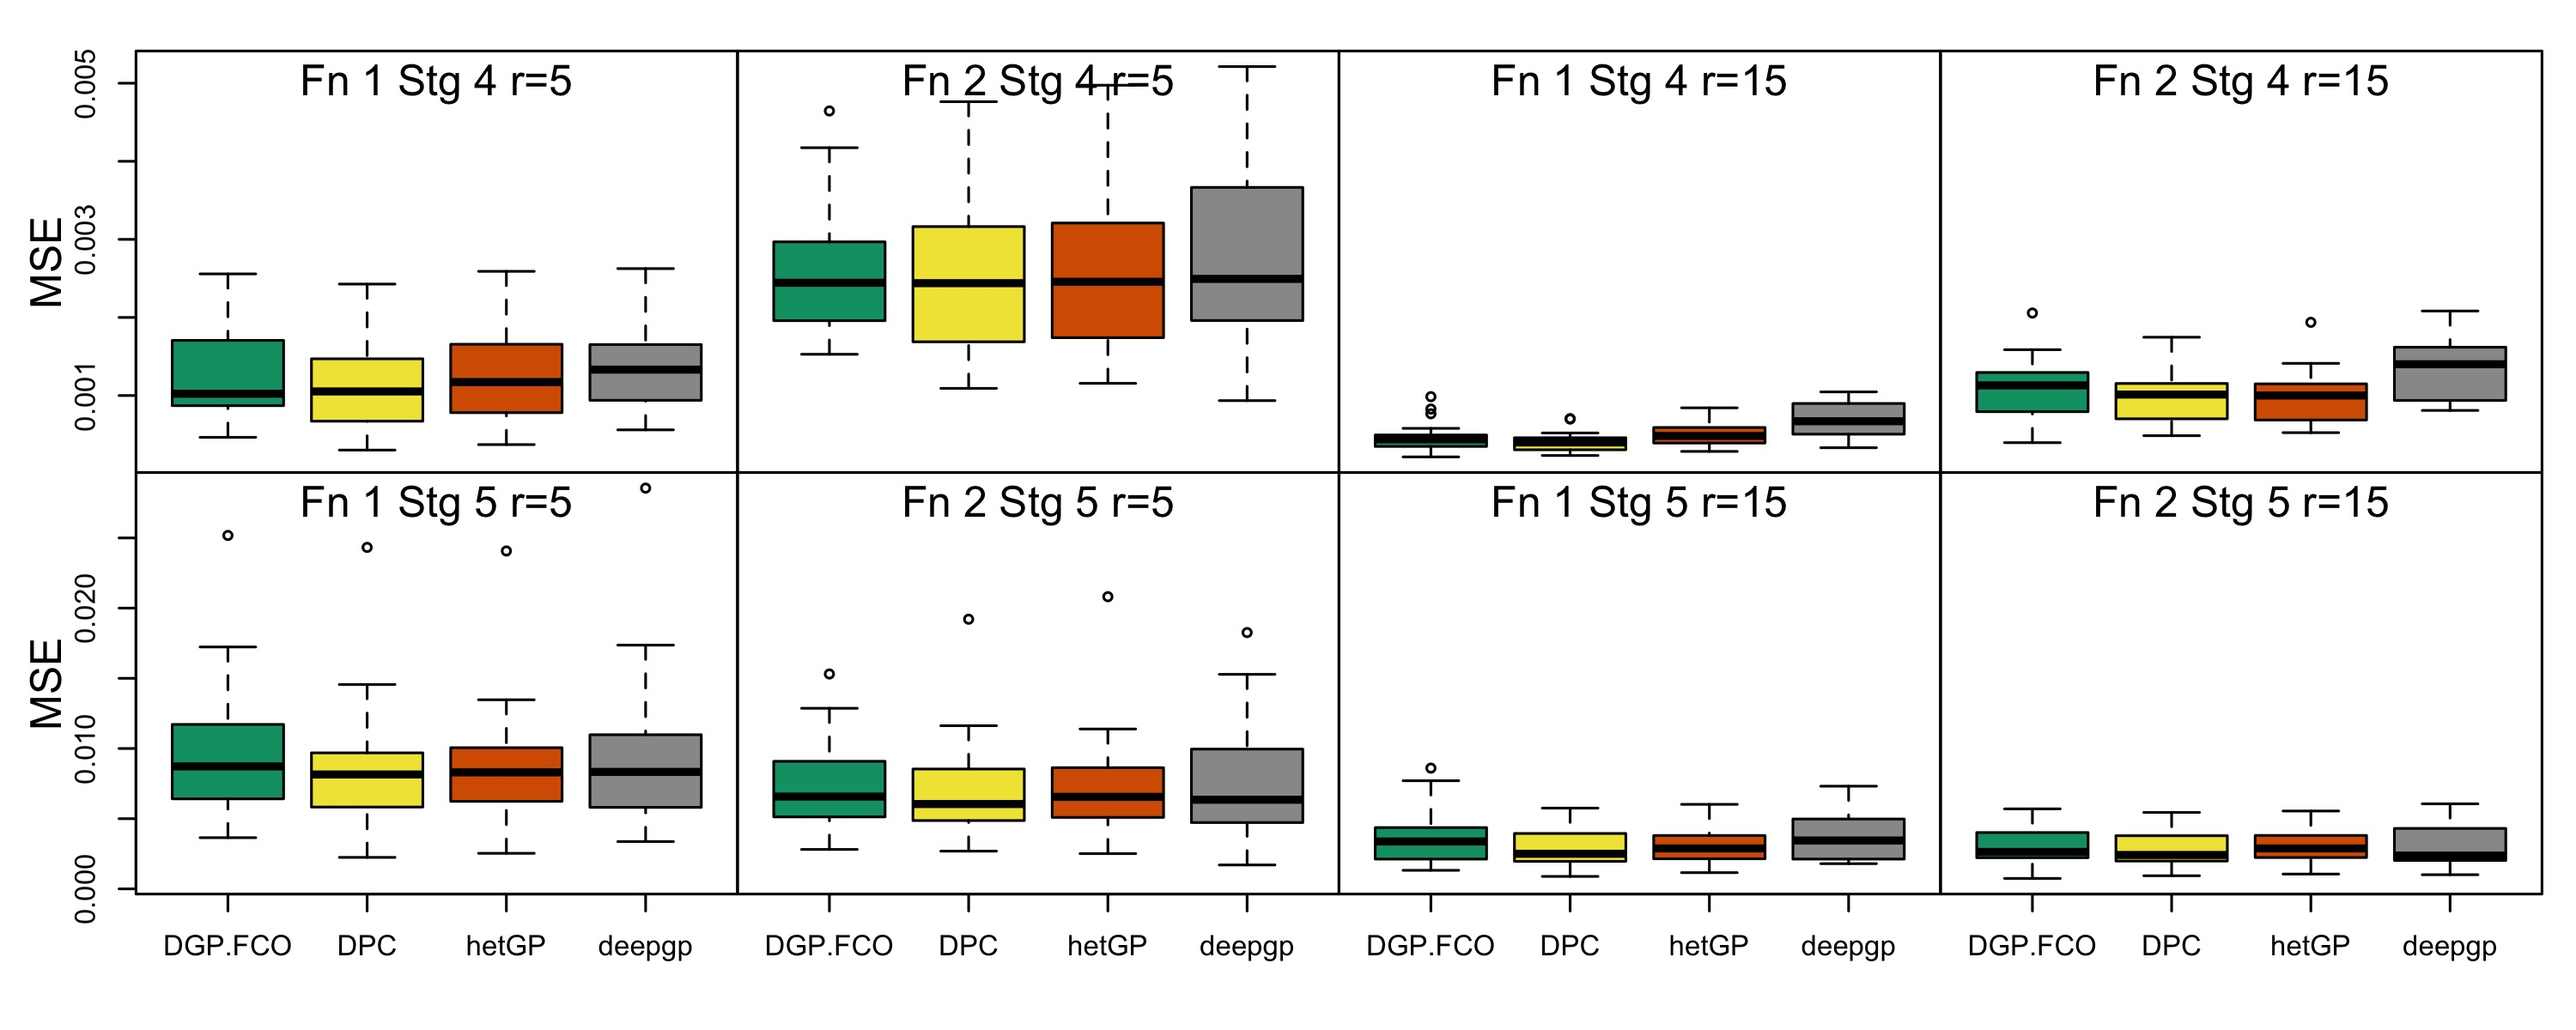
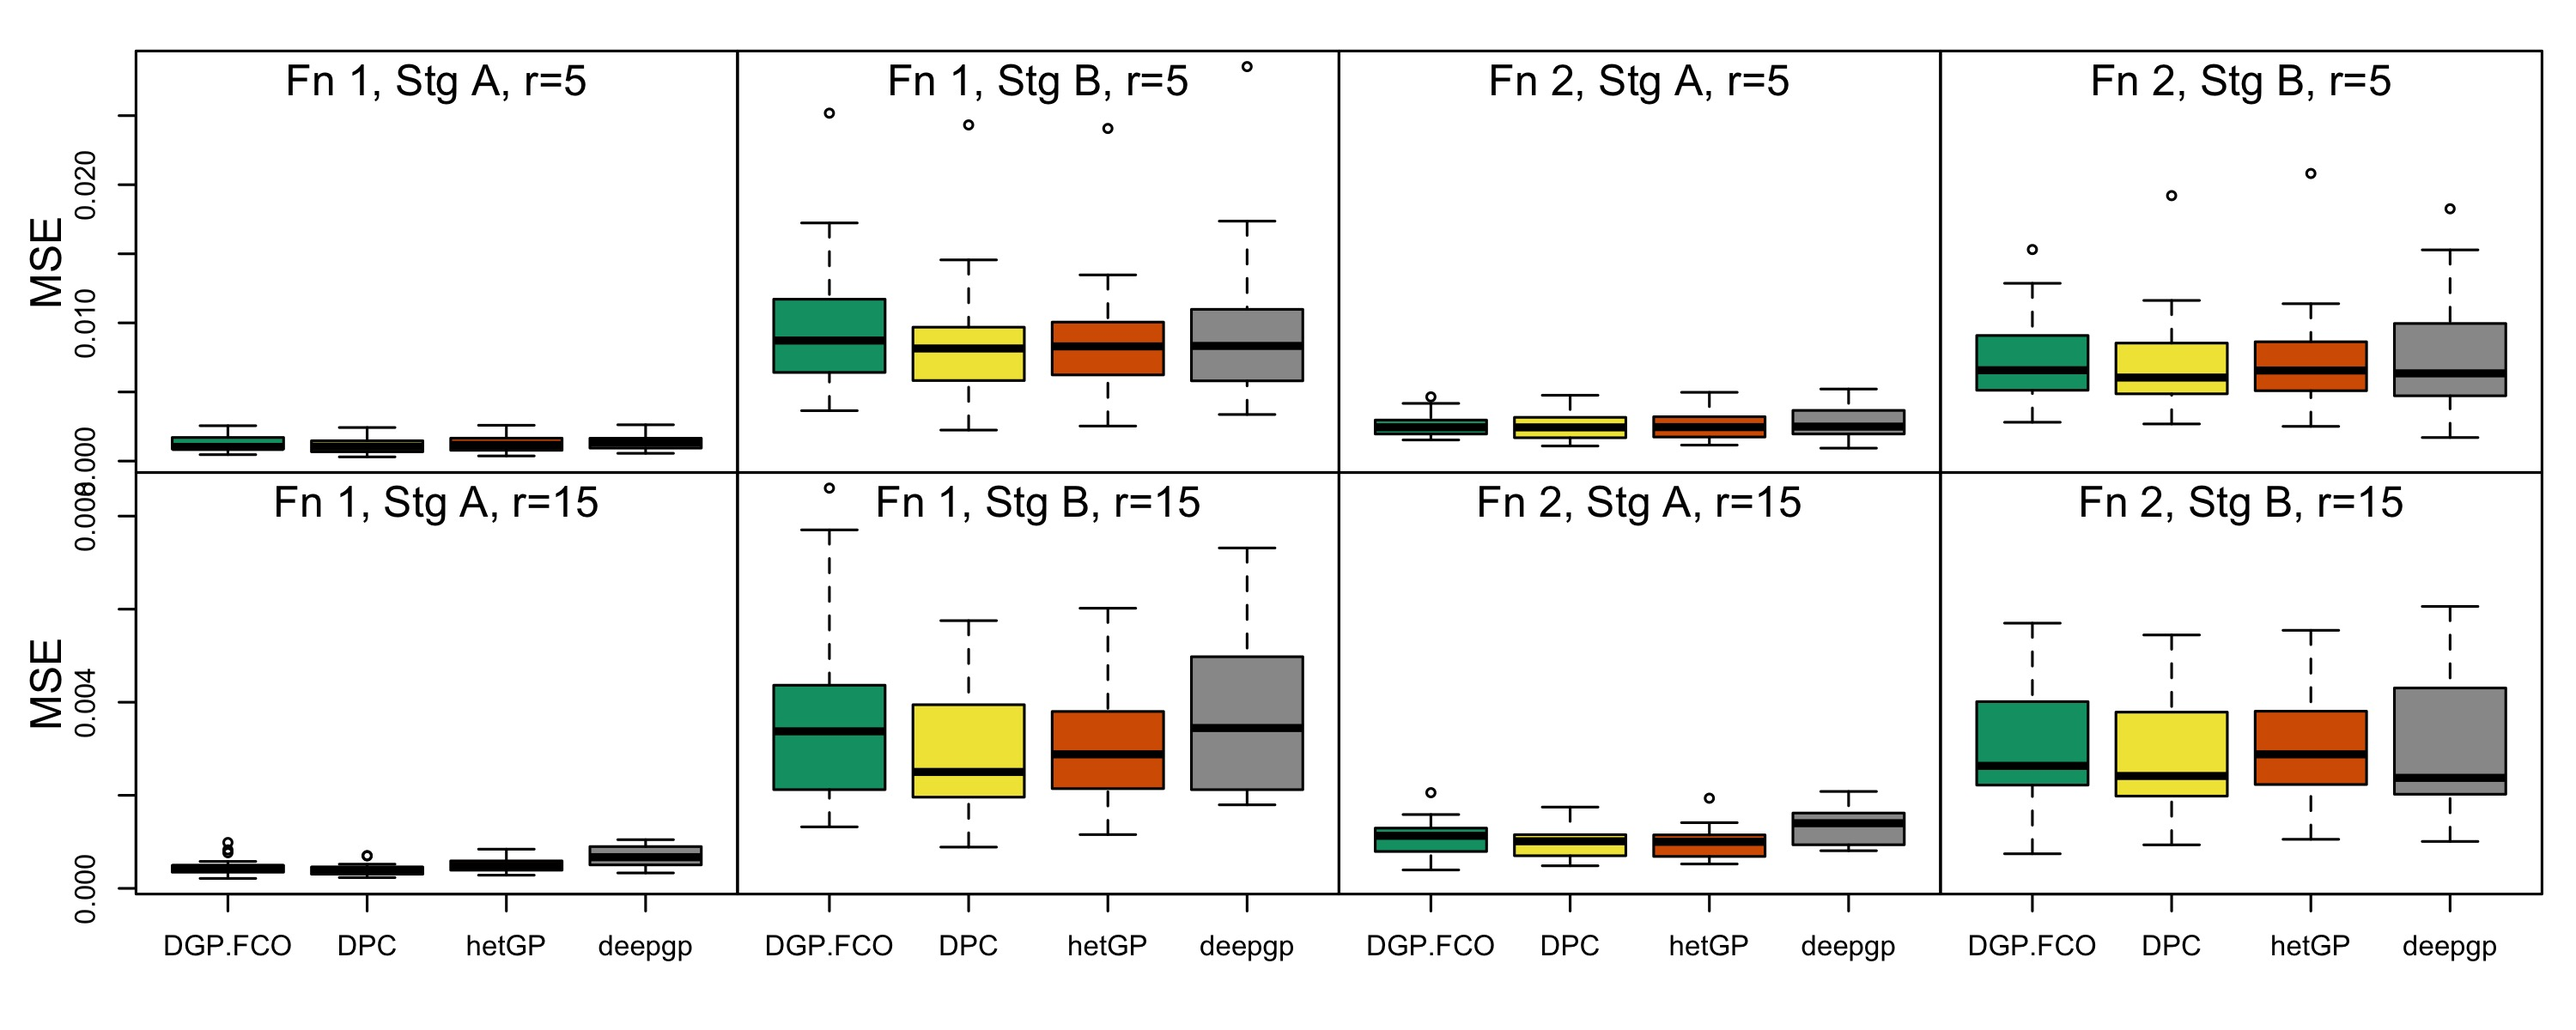
update sims images to say A and B, adjust rows/columns

diff --git a/paper/main.tex b/paper/main.tex
@@ -245,7 +245,7 @@ low resolution average, and high resolution). Specifically, denote $\Lambda_p$,
 $\Lambda_\ell$, and $\Lambda_h$ as the $n\times n$ diagonal matrices with elements
 \begin{equation}\label{eq:lambda}
 \Lambda_p^{(ii)} = \begin{cases}
-    10^5 &\text{for } k_i < 0.04 \\
+    10^8 &\text{for } k_i < 0.04 \\
     0  &\text{otherwise}\\
     \end{cases}
 \quad
@@ -260,7 +260,7 @@ $\Lambda_\ell$, and $\Lambda_h$ as the $n\times n$ diagonal matrices with elemen
     \end{cases}
 \end{equation}
 for $i=1,\dots, n$.  In $\Lambda_p$, we use the sufficiently high precision 
-of $10^5$ to impose the deterministic nature of the perturbation theory output.
+of $10^8$ to impose the deterministic nature of the perturbation theory output.
 In $\Lambda_\ell$, the multiplication by 16 accounts for the sample size of the
 low resolution runs.
 We then calculate a weighted average for each cosmology: 
@@ -577,32 +577,17 @@ by subtracting the posterior mean in order to more easily visualize the credible
 interval bounds.  The UQ from the DGP.FCO model accounts for varying precisions 
 across differing $k$ values, as well as the spatial correlation within the 
 functional realizations.  To provide insight into the nonstationarity of the power
-matter spectrum, Figure \ref{fig:plot_warp} shows the elliptical slice samples of $W$.
-These warpings depart from the identiy mapping around $x=0.4$ \textcolor{red}{(@Steve - 
-please change the x-axis to match the actual x-axis values, then adjust this number)}, 
+matter spectrum, the right panel of Figure \ref{fig:plot_fit} shows the elliptical slice samples of $W$.
+These warpings depart from the identiy mapping around $x\approx-1$, 
 stretching inputs where dynamics are shifting more rapidly for larger $k$ values.
 
 \begin{figure}[ht]
     \centering
-    \includegraphics[width=6in]{plot_fit.png}
+    \includegraphics[width=6in]{plot_fit.jpeg}
     \caption{95\% credible intervals for the power spectrum of the first Mira-Titan
     cosmology (centered by the predicted posterior mean). Perturbation theory, 
-    low-resolution, and high-resolution runs are shown for context.
-    \textcolor{red}{(@Steve - combine this plot with Figure 6.  The two panels of Figure 6
-    are redundant and unecessary (yet oddly, they don't match?).  Have this Mira-Titan 
-    plot take up 2/3 of the space, then have just the right panel from Figure 6 take 
-    up the remaining 1/3.  Update the figure caption and referencing accordingly.)}}
+    low-resolution, and high-resolution runs are shown for context.}
     \label{fig:plot_fit}
-\end{figure}
-
-\begin{figure}[ht]
-   \centering
-   \includegraphics[width=6in]{plot_warp_M001.png}
-   \caption{Left: MCMC samples of $W$ for model M001 after burnin and thinning. 
-            Right: Corresponding 95\% credible intervals for $W$, where departure 
-            from the identity line represents nonstationary behavior.
-            \textcolor{red}{(remove this figure, combine right panel with previous)}}
-   \label{fig:plot_warp}
 \end{figure}
 
 \section{Prediction for Unobserved Cosmologies}
